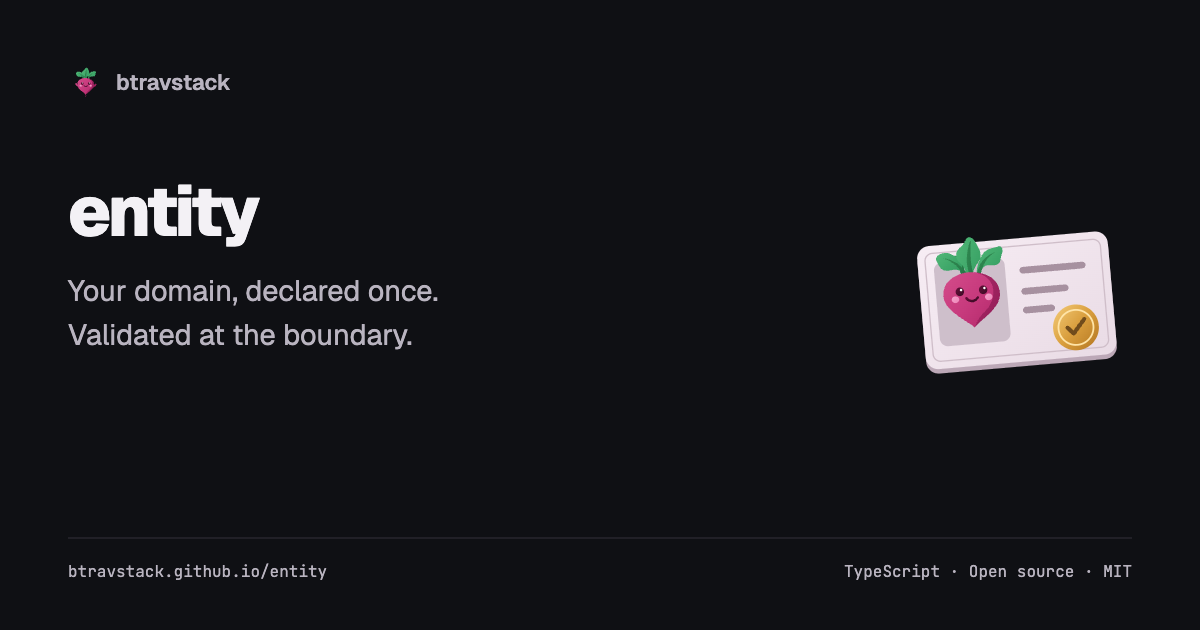
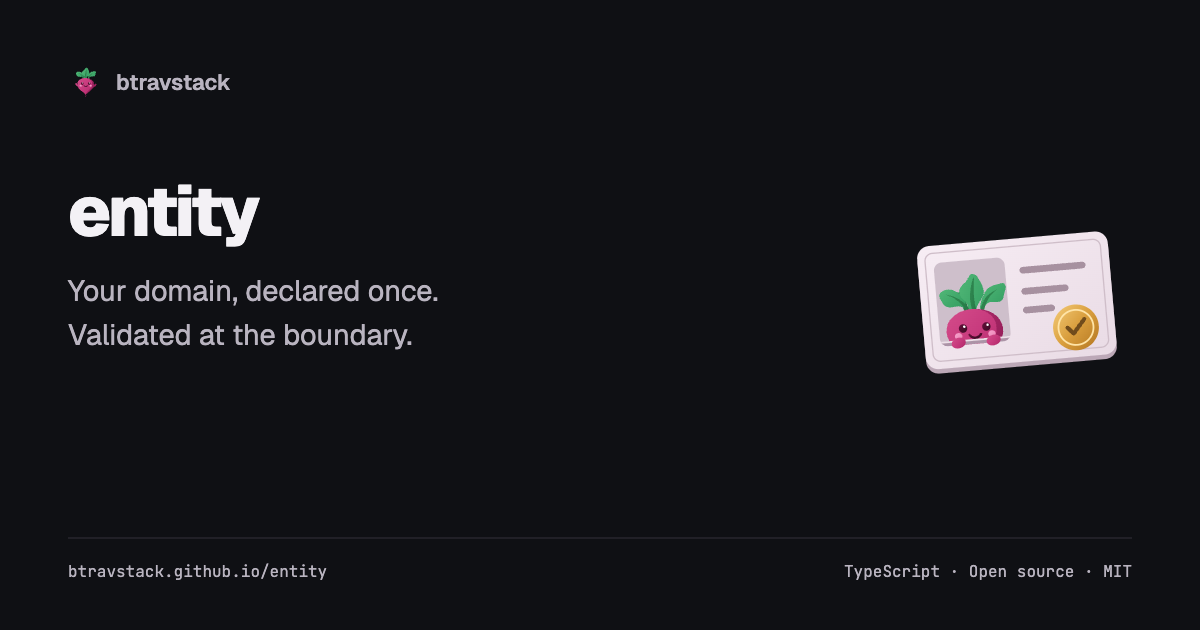
docs: perch entity mascot on photo frame

Changed region(s): [[0.7708, 0.3619, 0.8633, 0.573]]

diff --git a/docs/branding/README.md b/docs/branding/README.md
@@ -1,7 +1,8 @@
 # entity branding
 
-The illustrated mascot is a pink beet pictured on an identity card,
-part of the shared btravstack beet family. Its editable source is
+The illustrated mascot is a pink beet at the bottom of an identity-card photo,
+with its hands resting across the lower frame as if ready to climb out. It belongs
+to the shared btravstack beet family. Its editable source is
 [`scripts/generate-brand.mjs`](https://github.com/btravstack/btravstack.github.io/blob/main/scripts/generate-brand.mjs)
 in the website repository. Regenerate there, then copy the project assets from
 `apps/website/public/logos/` into this repository's `docs/public/`:
